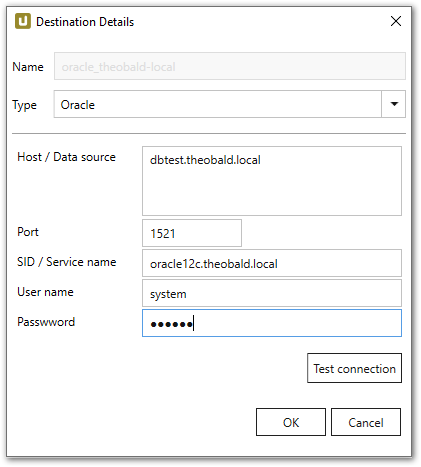
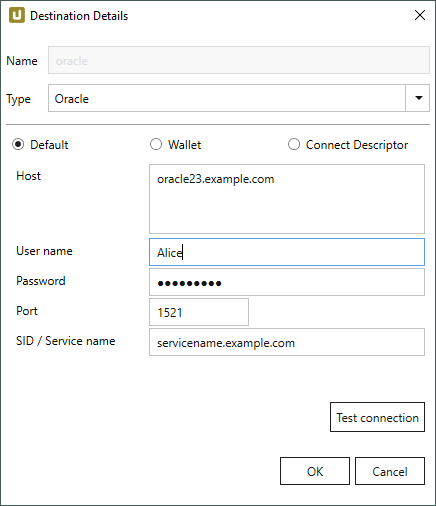
XU oracle autonomous database support

Changed region(s): [[0.0, 0.0, 1.0, 1.0]]

diff --git a/content/_de/xtract-universal/destinationen/oracle.md b/content/_de/xtract-universal/destinationen/oracle.md
@@ -24,19 +24,19 @@ Es sind keine zusätzlichen Installationen für die Nutzung der Oracle Datenbank
 
 ### Destination Details
 
+
+Die Oracle Destination unterstützt 3 Verbindungsarten:
+- **Default:** Verbindung zu einer Oracle Cloud.
+- **Wallet:** Verbindung zu einer Oracle Datenbank über Verbindungsdaten aus einem Wallet. 
+Verwenden Sie diese Option, wenn [mTLS (Mutual TLS)](https://docs.oracle.com/en/cloud/paas/autonomous-database/adbsa/connect-introduction.html#GUID-9A472E49-3B2B-4D9F-9DC2-D3E6E4454285) Authentifizierung erforderlich ist.
+- **Connect Descriptor:** Verbindung zu einer Oracle Datenbank.
+
+### Default
+
 ![XU_oracle_connection_test_1](/img/content/XU_oracle_connection_test_1.png){:class="img-responsive"}
 
-
-**Host / Data source**<br>
-Name des Datenbankservers oder Connect Descriptor eingeben.
-Alternativ kann man den [connect descriptor](https://docs.oracle.com/html/E10927_01/featConnecting.htm) eingeben, zum Beispiel:
-
-*(DESCRIPTION =* <br>
-*(ADDRESS = (PROTOCOL = TCP)* <br>
-*(HOST = [oracle host name])(PORT = [port number]))* <br>
-*(CONNECT_DATA =* <br>
-*(SERVER = DEDICATED)* <br>
-*(SERVICE_NAME = [oracle service name])))*
+**Host**<br>
+Geben Sie den Namen des Oracle-Servers ein.
 
 **Port**<br>
 Port des Oracle-Servers (Default: 1521) eingeben. 
@@ -45,11 +45,57 @@ Port des Oracle-Servers (Default: 1521) eingeben.
 Eindeutigen Name (SID) bzw. Alias (Service name) der Oracle-Datenbank eingeben.
 
 **Username** <br>
-Name des Datenbankbenutzers eingeben.
+Name des Datenbankbenutzers.
 
 **Password**<br>
-Passwort des Datenbankbenutzers eingeben.
-            
+Passwort des Datenbankbenutzers.
+ 
+**Test Connection**<br>
+Klicken Sie auf die Schaltfläche, um die Verbindung zu testen. 
+
+#### Wallet
+
+![XU_oracle_connection_test_1](/img/content/XU_oracle_connection_test_2.png){:class="img-responsive"}
+
+**TNS Name**<br>
+Geben Sie den TNS-Namen der Verbindung ein. Der TNS-Name ist in der Datei `tnsnames.ora` in Ihrem Wallet abgelegt.<br>
+Für mehr Informationen, siehe [Oracle Documentation: Download Client Credentials (Wallets)](https://docs.oracle.com/en/cloud/paas/autonomous-data-warehouse-cloud/cswgs/autonomous-connect-download-credentials.html#GUID-B06202D2-0597-41AA-9481-3B174F75D4B1).
+
+**Username** <br>
+Name des Datenbankbenutzers.
+
+**Password**<br>
+Passwort des Datenbankbenutzers.
+
+**Wallet location** <br> 
+Geben Sie den Pfad zu Ihrem Wallet ein, z.B. `C:\Oracle\Wallet`.<br>
+Der Benutzer, unter dem der Xtract Universal Dienst ausgeführt wird, muss Zugriff auf den Ordner haben, in dem das Wallet liegt.
+
+**Test Connection**<br>
+Klicken Sie auf die Schaltfläche, um die Verbindung zu testen. 
+
+#### Connect Descriptor
+
+![XU_oracle_connection_test_1](/img/content/XU_oracle_connection_test_3.png){:class="img-responsive"}
+
+**Connect Descriptor** <br>
+Geben Sie einen gültigen Connect Descriptor (connection string) ein, siehe [Oracle Documentation: View TNS Names and Connection Strings for an Autonomous Database Instance](https://docs.oracle.com/en/cloud/paas/autonomous-data-warehouse-cloud/cswgs/autonomous-connection-strings-view.html#GUID-BE884A1B-034D-4CD6-9B71-83A4CCFDE9FB).<br>
+Ein Connect Descriptor verwendet folgendes Format:<br>
+```
+*(DESCRIPTION =*<br>
+*(ADDRESS = (PROTOCOL = TCP)*<br>
+*(HOST = [oracle host name])(PORT = [port number]))*<br>
+*(CONNECT_DATA =*<br>
+*(SERVER = DEDICATED)*<br>
+*(SERVICE_NAME = [oracle service name])))*<br>
+```
+
+**Username** <br>
+Name des Datenbankbenutzers.
+
+**Password**<br>
+Passwort des Datenbankbenutzers.
+ 
 **Test Connection**<br>
 Klicken Sie auf die Schaltfläche, um die Verbindung zu testen. 
 

diff --git a/content/_en/xtract-universal/destinations/oracle.md b/content/_en/xtract-universal/destinations/oracle.md
@@ -26,24 +26,70 @@ There are no additional installations needed to use Oracle database destination.
 
 ### Destination Details
 
+
+The Oracle destination supports 3 types of connections:
+- **Default:** Connect to an Oracle cloud.
+- **Wallet:** Connect to an Oracle Database using a connection from a wallet. Use this option when [mTLS (Mutual TLS)](https://docs.oracle.com/en/cloud/paas/autonomous-database/adbsa/connect-introduction.html#GUID-9A472E49-3B2B-4D9F-9DC2-D3E6E4454285) authentication is required.
+- **Connect Descriptor:** Connect to an Oracle database.
+
+#### Default
+
 ![XU_oracle_connection_test_1](/img/content/XU_oracle_connection_test_1.png){:class="img-responsive"}
 
-**Host / Data source** <br>
-Enter the name of the Oracle server. 
-Alternatively you can enter the [connect descriptor](https://docs.oracle.com/html/E10927_01/featConnecting.htm), such as:
-
-*(DESCRIPTION =*<br>
-*(ADDRESS = (PROTOCOL = TCP)*<br>
-*(HOST = [oracle host name])(PORT = [port number]))*<br>
-*(CONNECT_DATA =*<br>
-*(SERVER = DEDICATED)*<br>
-*(SERVICE_NAME = [oracle service name])))*<br>
+**Host** <br>
+Enter the name of the Oracle server.
 
 **Port** <br>
 Enter the Oracle server connection port (Default: 1521).
 
 **SID / Service name** <br>
 Enter the unique name (SID) or the alias (service name) of the Oracle database.
+
+**Username** <br> 
+Enter the user name.
+
+**Password** <br>
+Enter the password.
+
+**Test Connection** <br>
+Check the database connection. 
+
+#### Wallet
+
+![XU_oracle_connection_test_1](/img/content/XU_oracle_connection_test_2.png){:class="img-responsive"}
+
+**TNS Name** <br> 
+Enter the TNS name of the connection as it is stored in the `tnsnames.ora` file in your wallet.<br>
+For more information, see [Oracle Documentation: Download Client Credentials (Wallets)](https://docs.oracle.com/en/cloud/paas/autonomous-data-warehouse-cloud/cswgs/autonomous-connect-download-credentials.html#GUID-B06202D2-0597-41AA-9481-3B174F75D4B1).
+
+**Username** <br> 
+Enter the user name.
+
+**Password** <br>
+Enter the password.
+
+**Wallet location** <br> 
+Enter the path to your wallet, e.g., `C:\Oracle\Wallet`. <br>
+Note that the wallet location must be accessible for the user that runs the Xtract Universal service.<br>
+
+**Test Connection** <br>
+Check the database connection. 
+
+#### Connect Descriptor
+
+![XU_oracle_connection_test_1](/img/content/XU_oracle_connection_test_3.png){:class="img-responsive"}
+
+**Connect Descriptor** <br>
+Enter a connect descriptor (connection string), see [Oracle Documentation: View TNS Names and Connection Strings for an Autonomous Database Instance](https://docs.oracle.com/en/cloud/paas/autonomous-data-warehouse-cloud/cswgs/autonomous-connection-strings-view.html#GUID-BE884A1B-034D-4CD6-9B71-83A4CCFDE9FB).<br>
+A connect descriptor has the following format:<br>
+```
+*(DESCRIPTION =*<br>
+*(ADDRESS = (PROTOCOL = TCP)*<br>
+*(HOST = [oracle host name])(PORT = [port number]))*<br>
+*(CONNECT_DATA =*<br>
+*(SERVER = DEDICATED)*<br>
+*(SERVICE_NAME = [oracle service name])))*<br>
+```
 
 **Username** <br> 
 Enter the user name.
